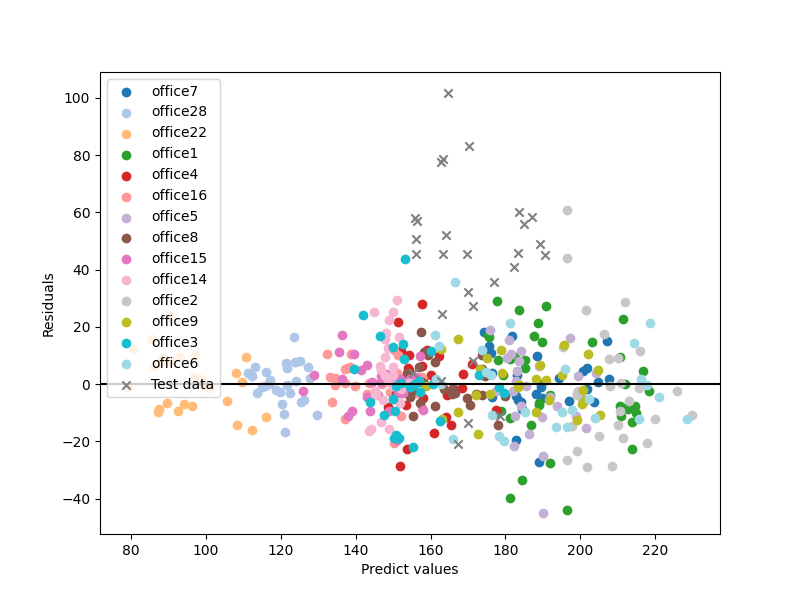
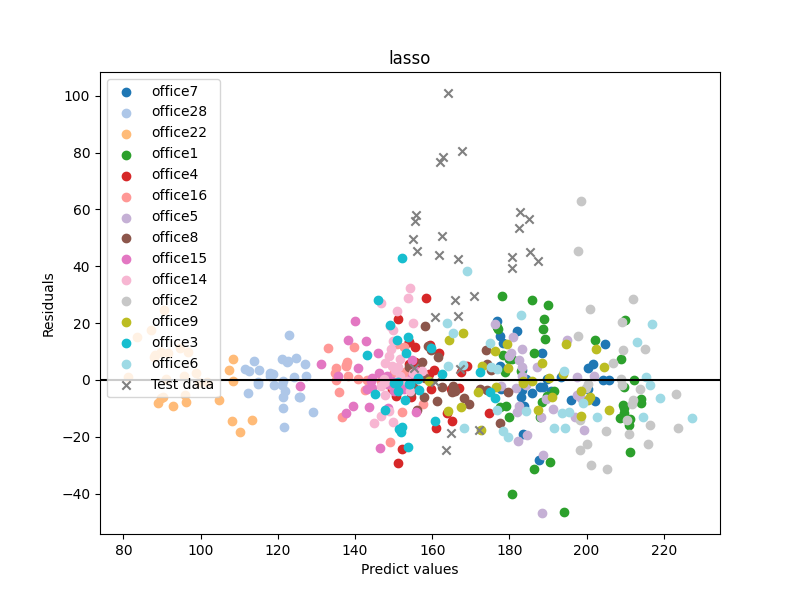
6

diff --git a/ML_9/ML_9_4/ML_9_4.py b/ML_9/ML_9_4/ML_9_4.py
@@ -1,14 +1,13 @@
 import optuna
-import numpy as np
 import pandas as pd
-from sklearn.model_selection import KFold
-from sklearn.preprocessing import PolynomialFeatures
+import numpy as np
 import matplotlib.pyplot as plt
-from sklearn.linear_model import Ridge
-from sklearn.metrics import mean_squared_error
-from sklearn.metrics import r2_score
-from sklearn.metrics import mean_absolute_error
+from optuna.samplers import GridSampler
+from sklearn.model_selection import KFold
+from sklearn.svm import SVR
+from sklearn.metrics import mean_squared_error, r2_score, mean_absolute_error
 
+# データの読み込みや前処理が必要な場合はここで行う
 X_train = pd.read_csv("/home/gakubu/デスクトップ/MLTgit/MLT/ML_9/X_train_sc.csv")
 y_train = pd.read_csv("/home/gakubu/デスクトップ/MLTgit/MLT/ML_9/y_train.csv")
 X_test = pd.read_csv("/home/gakubu/デスクトップ/MLTgit/MLT/ML_9/X_test_sc.csv")
@@ -17,65 +16,57 @@ df_train = pd.read_csv("/home/gakubu/デスクトップ/MLTgit/MLT/ML_9/df_train
 df_test = pd.read_csv("/home/gakubu/デスクトップ/MLTgit/MLT/ML_9/df_test.csv")
 
 
+# k分割交差検証のためのKFold
 kf = KFold(n_splits=10, shuffle=True, random_state=42)
 
 
 def objective(trial):
-    # ハイパーパラメータの探索範囲
-    degree = trial.suggest_int('degree', 1, 4)
-    alpha = trial.suggest_float('alpha', 0, 20, step=0.1)
+    # ハイパーパラメータのサンプリング
+    C = trial.suggest_float('C', 1e-3, 1e3)
+    gamma = trial.suggest_float('gamma', 1e-3, 1e3)
+    epsilon = trial.suggest_float('epsilon', 1e-3, 1e1)
 
-    # k分割交差検証の実行
+    # SVRモデルの構築
+    svr = SVR(C=C, gamma=gamma, epsilon=epsilon)
+
+    # 交差検証の実行
     rmse_scores = []
+    for train_idx, val_idx in kf.split(X_train):
+        X_fold_train, X_fold_val = X_train.loc[train_idx], X_train.loc[val_idx]
+        y_fold_train, y_fold_val = y_train.loc[train_idx], y_train.loc[val_idx]
 
-    for train_index, val_index in kf.split(X_train):
-        X_train_fold, X_val_fold = X_train.loc[train_index], X_train.loc[val_index]
-        y_train_fold, y_val_fold = y_train.loc[train_index], y_train.loc[val_index]
-
-        poly = PolynomialFeatures(degree=degree, interaction_only=True)
-        X_poly_train_fold = poly.fit_transform(X_train_fold)
-
-        ridge = Ridge(alpha=alpha)
-        ridge.fit(X_poly_train_fold, y_train_fold)
-
-        X_poly_val_fold = poly.transform(X_val_fold)
-        y_pred = ridge.predict(X_poly_val_fold)
-
-        rmse_fold = np.sqrt(mean_squared_error(y_val_fold, y_pred))
+        svr.fit(X_fold_train, y_fold_train)
+        y_pred = svr.predict(X_fold_val)
+        rmse_fold = np.sqrt(mean_squared_error(y_fold_val, y_pred))
         rmse_scores.append(rmse_fold)
 
-    # 平均二乗誤差の平均を目的関数とする
-    return np.mean(rmse_scores)
+    # 目的関数（最小化したい指標）の計算
+    rmse = np.mean(rmse_scores)
+    return rmse
 
 
-# Optunaで最適なハイパーパラメータの探索
-search_space = {'degree': range(1, 5), 'alpha': np.arange(0, 20.1, 0.1)}
-study = optuna.create_study(
-    sampler=optuna.samplers.GridSampler(search_space), direction='minimize')
+# Optunaによるハイパーパラメータの最適化(GridSamplerを使用)
+sampler = optuna.samplers.GridSampler(
+    {'C': np.arange(0.1, 1, 10), 'gamma': np.arange(0.01, 0.1, 1), 'epsilon': np.arange(0.01, 0.1, 1)})
+study = optuna.create_study(direction='minimize', sampler=sampler)
 study.optimize(objective)
 
-# 結果の表示
-print("Best trial:")
-trial = study.best_trial
-print("  Value: {:.4f}".format(trial.value))
-print("  Params: {}".format(trial.params))
+# 最適なハイパーパラメータでのSVRモデルのトレーニング
+best_params = study.best_params
+best_svr = SVR(**best_params)
+best_svr.fit(X_train, y_train)
 
-# 最も精度の良いモデルで全トレーニングデータを用いて再学習
-best_degree = trial.params['degree']
-best_alpha = trial.params['alpha']
+# テストデータに対する予測
+y_test_pred = best_svr.predict(X_test)
+y_train_pred = best_svr.predict(X_train)
 
-poly = PolynomialFeatures(degree=best_degree)
-X_train_poly = poly.fit_transform(X_train)
-
-ridge = Ridge(alpha=best_alpha)
-ridge.fit(X_train_poly, y_train)
-
-# テストデータでの予測と評価
-X_test_poly = poly.transform(X_test)
-y_train_pred = ridge.predict(X_train_poly)
-y_test_pred = ridge.predict(X_test_poly)
+# モデルの評価
 mse = mean_squared_error(y_test, y_test_pred)
-print("Test MSE:", mse)
+r2 = r2_score(y_test, y_test_pred)
+
+print(f'Mean Squared Error: {mse}')
+print(f'R^2 Score: {r2}')
+print(f'Best Hyperparameters: {best_params}')
 
 df_er = pd.DataFrame({'r2(決定係数)': [r2_score(y_test, y_test_pred)],
                      'RMSE(平方平均二乗誤差)': [np.sqrt(mean_squared_error(y_test, y_test_pred))],
@@ -83,7 +74,7 @@ df_er = pd.DataFrame({'r2(決定係数)': [r2_score(y_test, y_test_pred)],
                       'MAE(平均絶対誤差)': [mean_absolute_error(y_test, y_test_pred)]})
 
 df_er.to_csv(
-    "/home/gakubu/デスクトップ/MLTgit/MLT/ML_9/ML_9_3/df_er_redge.csv", index=False)
+    "/home/gakubu/デスクトップ/MLTgit/MLT/ML_9/ML_9_4/df_er.csv", index=False)
 
 # データに予測値と誤差を追加
 df_train['Predict values'] = y_train_pred
@@ -128,6 +119,6 @@ plt.xlabel('Predict values')
 plt.ylabel('Residuals')
 plt.axhline(y=0, c='k')
 plt.legend()
-plt.title('ridge')
-plt.savefig("/home/gakubu/デスクトップ/MLTgit/MLT/ML_9/ML_9_3/ML_9_3_ridge.png")
+plt.title('lasso')
+plt.savefig("/home/gakubu/デスクトップ/MLTgit/MLT/ML_9/ML_9_4/ML_9_4.png")
 plt.show()

diff --git a/ML_9/ML_9_3/ML_9_3_ElasticNet.py b/ML_9/ML_9_3/ML_9_3_ElasticNet.py
@@ -23,17 +23,17 @@ kf = KFold(n_splits=10, shuffle=True, random_state=42)
 def objective(trial):
     # ハイパーパラメータの探索範囲
     degree = trial.suggest_int('degree', 1, 4)
-    alpha = trial.suggest_float('alpha', 0, 20, step=0.01)
-    l1_ratio = trial.suggest_float('l1_ratio', 0.1, 0.9, step=0.1)
+    alpha = trial.suggest_float('alpha', 0, 20, step=0.1)
+    l1_ratio = trial.suggest_float('l1_ratio', 0, 1, step=0.01)
 
     # k分割交差検証の実行
-    mse_scores = []
+    rmse_scores = []
 
     for train_index, val_index in kf.split(X_train):
         X_train_fold, X_val_fold = X_train.loc[train_index], X_train.loc[val_index]
         y_train_fold, y_val_fold = y_train.loc[train_index], y_train.loc[val_index]
 
-        poly = PolynomialFeatures(degree=degree)
+        poly = PolynomialFeatures(degree=degree, interaction_only=True)
         X_poly_train_fold = poly.fit_transform(X_train_fold)
 
         model = ElasticNet(alpha=alpha, l1_ratio=l1_ratio)
@@ -42,16 +42,16 @@ def objective(trial):
         X_poly_val_fold = poly.transform(X_val_fold)
         y_pred = model.predict(X_poly_val_fold)
 
-        mse_fold = mean_squared_error(y_val_fold, y_pred)
-        mse_scores.append(mse_fold)
+        rmse_fold = np.sqrt(mean_squared_error(y_val_fold, y_pred))
+        rmse_scores.append(rmse_fold)
 
     # 平均二乗誤差の平均を目的関数とする
-    return np.mean(mse_scores)
+    return np.mean(rmse_scores)
 
 
 # Optunaで最適なハイパーパラメータの探索
 search_space = {'degree': range(1, 5), 'alpha': np.arange(
-    0, 20.1, 0.1), 'l1_ratio': np.arange(0.1, 1.0, 0.1)}
+    0, 20.1, 0.1), 'l1_ratio': np.arange(0.01, 1.0, 0.01)}
 study = optuna.create_study(
     sampler=optuna.samplers.GridSampler(search_space), direction='minimize')
 study.optimize(objective)
@@ -130,5 +130,6 @@ plt.xlabel('Predict values')
 plt.ylabel('Residuals')
 plt.axhline(y=0, c='k')
 plt.legend()
+plt.title('ElasticNet')
 plt.savefig("/home/gakubu/デスクトップ/MLTgit/MLT/ML_9/ML_9_3/ML_9_3_ElasticNet.png")
 plt.show()

diff --git a/ML_9/ML_9_3/ML_9_3_lasso.py b/ML_9/ML_9_3/ML_9_3_lasso.py
@@ -23,16 +23,16 @@ kf = KFold(n_splits=10, shuffle=True, random_state=42)
 def objective(trial):
     # ハイパーパラメータの探索範囲
     degree = trial.suggest_int('degree', 1, 4)
-    alpha = trial.suggest_float('alpha', 0, 20, step=0.01)
+    alpha = trial.suggest_float('alpha', 0, 20, step=0.1)
 
     # k分割交差検証の実行
-    mse_scores = []
+    rmse_scores = []
 
     for train_index, val_index in kf.split(X_train):
         X_train_fold, X_val_fold = X_train.loc[train_index], X_train.loc[val_index]
         y_train_fold, y_val_fold = y_train.loc[train_index], y_train.loc[val_index]
 
-        poly = PolynomialFeatures(degree=degree)
+        poly = PolynomialFeatures(degree=degree, interaction_only=True)
         X_poly_train_fold = poly.fit_transform(X_train_fold)
 
         lasso = Lasso(alpha=alpha)
@@ -41,11 +41,11 @@ def objective(trial):
         X_poly_val_fold = poly.transform(X_val_fold)
         y_pred = lasso.predict(X_poly_val_fold)
 
-        mse_fold = mean_squared_error(y_val_fold, y_pred)
-        mse_scores.append(mse_fold)
+        rmse_fold = np.sqrt(mean_squared_error(y_val_fold, y_pred))
+        rmse_scores.append(rmse_fold)
 
     # 平均二乗誤差の平均を目的関数とする
-    return np.mean(mse_scores)
+    return np.mean(rmse_scores)
 
 
 # Optunaで最適なハイパーパラメータの探索
@@ -128,5 +128,6 @@ plt.xlabel('Predict values')
 plt.ylabel('Residuals')
 plt.axhline(y=0, c='k')
 plt.legend()
+plt.title('lasso')
 plt.savefig("/home/gakubu/デスクトップ/MLTgit/MLT/ML_9/ML_9_3/ML_9_3_lasso.png")
 plt.show()

diff --git a/ML_9/NaN_check.py b/ML_9/NaN_check.py
@@ -1,0 +1,28 @@
+import numpy as np
+import pandas as pd
+X_train = pd.read_csv("/home/gakubu/デスクトップ/MLTgit/MLT/ML_9/X_train_sc.csv")
+y_train = pd.read_csv("/home/gakubu/デスクトップ/MLTgit/MLT/ML_9/y_train.csv")
+X_test = pd.read_csv("/home/gakubu/デスクトップ/MLTgit/MLT/ML_9/X_test_sc.csv")
+y_test = pd.read_csv("/home/gakubu/デスクトップ/MLTgit/MLT/ML_9/y_test.csv")
+
+# Check for NaN values
+nan_check_X_train = np.isnan(X_train)
+nan_check_y_train = np.isnan(y_train)
+nan_check_X_test = np.isnan(X_test)
+nan_check_y_test = np.isnan(y_test)
+
+print("NaN values in X_train:", nan_check_X_train.any())
+print("NaN values in y_train:", nan_check_y_train.any())
+print("NaN values in X_test:", nan_check_X_test.any())
+print("NaN values in y_test:", nan_check_y_test.any())
+
+# Check for infinite values
+inf_check_X_train = np.isinf(X_train)
+inf_check_y_train = np.isinf(y_train)
+inf_check_X_test = np.isinf(X_test)
+inf_check_y_test = np.isinf(y_test)
+
+print("Infinite values in X_train:", inf_check_X_train.any())
+print("Infinite values in y_train:", inf_check_y_train.any())
+print("Infinite values in X_test:", inf_check_X_test.any())
+print("Infinite values in y_test:", inf_check_y_test.any())
